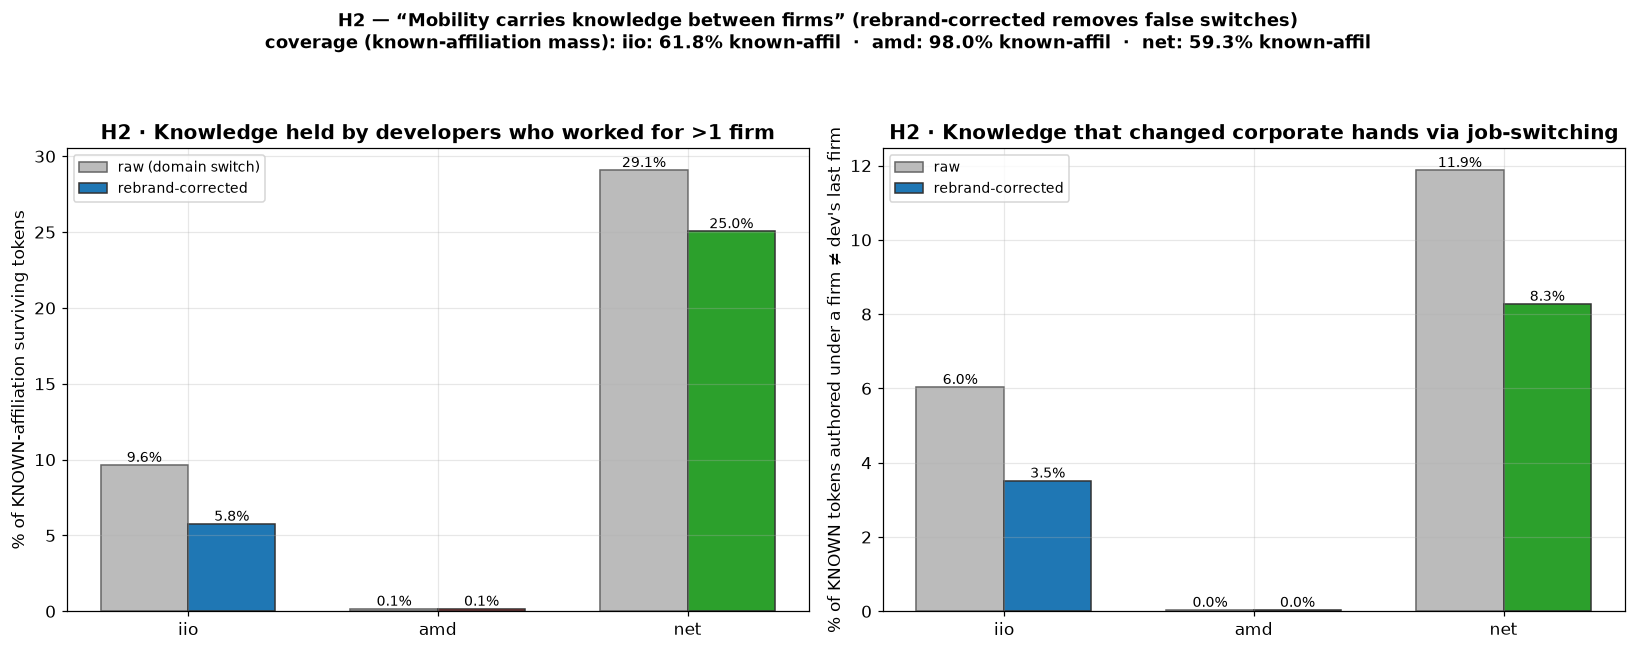
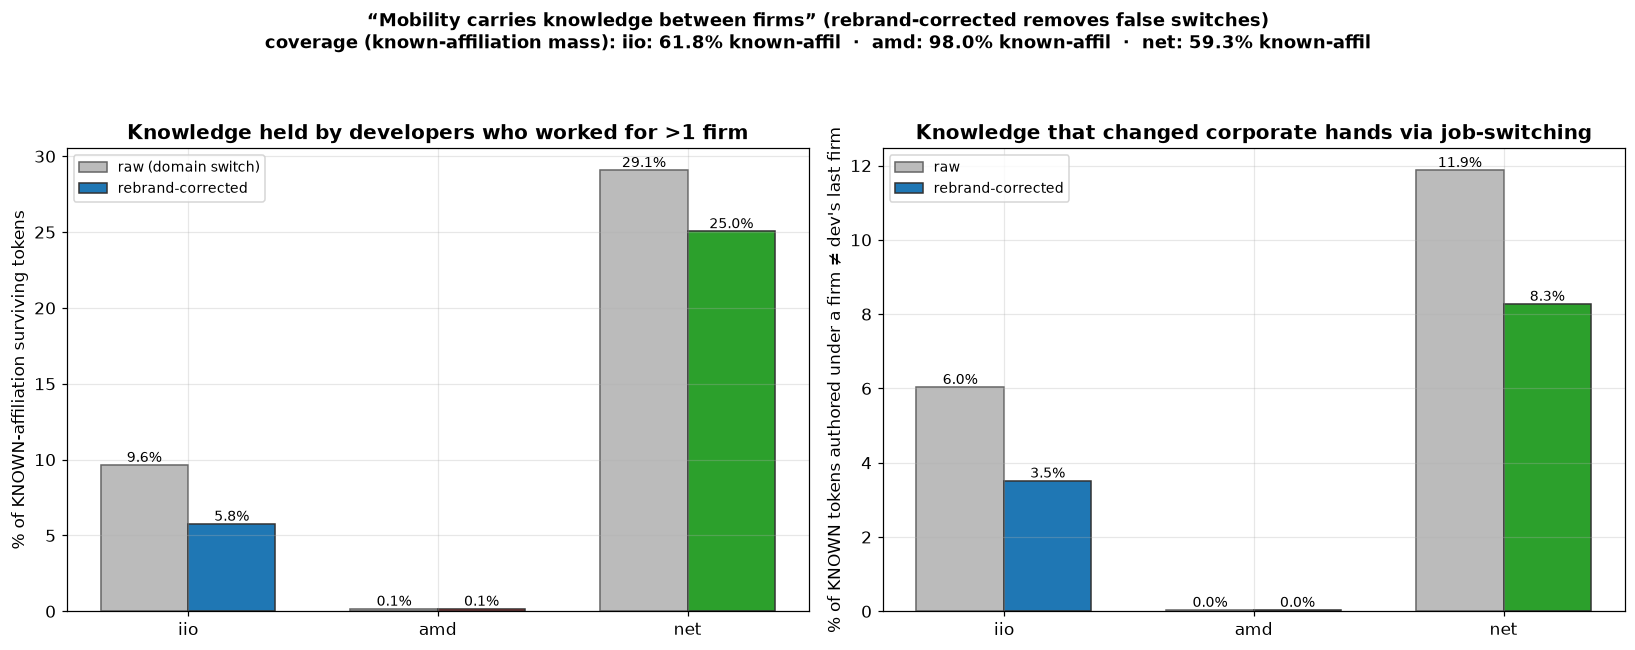
content: clarify metrics + regenerate all figures without internal markers
Prose: add reader-facing explanations for the Gini coefficient, the two
coverage-lift panels (coverage vs corporate share), orphaned/absorbed/retained
outcomes, the mobility stock-vs-flow panels, convergent validity, the
cross-firm-mixing null model, and a note reconciling the turnover firm-TF
(DoA-based, ends ~5/6) with the headline 5%-token figures (7/17).

Figures: regenerate all 12 kc-*.png with clean public titles -- strip notebook
section markers (§2a), work-package/hypothesis/RQ tags (WP7, H1, RQ3), and
em-dashes from every rendered title/label. Data unchanged; overview figures now
use a consistent mass-ranked firm color map across topfirms + ownership.

Changed region(s): [[0.2183, 0.0, 0.7798, 0.0615], [0.5303, 0.1846, 0.9982, 0.2154], [0.0624, 0.1846, 0.4679, 0.2154]]

diff --git a/src/en/posts/measuring-corporate-knowledge-concentration-in-the-linux-kernel.md b/src/en/posts/measuring-corporate-knowledge-concentration-in-the-linux-kernel.md
@@ -116,8 +116,17 @@ firm shares:
 
 $$G = \frac{\sum_{i=1}^{n} \sum_{j=1}^{n} \lvert s_i - s_j \rvert}{2 n^2 \bar{s}}$$
 
-and I report affiliation coverage next to every number so the reader knows how
-much of the code the claim actually rests on.
+The Gini coefficient is a single number from $0$ to $1$ that measures how
+_unevenly_ the tokens are split: it is literally the average absolute difference
+between every pair of firms' shares, normalized to land in $[0, 1]$. A Gini of
+$0$ means every firm owns exactly the same amount; a Gini approaching $1$ means
+one firm owns almost everything and the rest almost nothing. Where HHI (by
+squaring the shares) is dominated by the single largest firm and answers "is
+there one giant?", Gini looks at the whole spread and answers "is the field
+lopsided overall?", so two subsystems with a similar HHI can still differ in Gini
+if one has a long tail of tiny firms. I report both, and I put affiliation
+coverage next to every number so the reader knows how much of the code the claim
+actually rests on.
 
 ## Known Problems
 
@@ -203,7 +212,7 @@ commits really do come from company engineers.
 <div style="display: flex; justify-content: center;">
   <img src="/public/kc-coverage-lift.png" alt="Two bar charts. Left: affiliation coverage before and after resolving the unattributed tail, rising from 62 to 76 percent in iio and 59 to 82 percent in net, while amd barely moves near 98 percent. Right: corporate share of all tokens rising by 12 points in iio and 21 in net.">
 </div>
-<p style="text-align: center;"><em>Resolving the unattributed tail. Where the tail is large (iio, net), attributing it to firms lifts both coverage and the corporate share substantially; amd was already near-complete. This is the lower bound made concrete: the corporate share is provably higher than the raw email-domain view shows.</em></p>
+<p style="text-align: center;"><em>Resolving the unattributed tail. The two panels measure different things: the left is <strong>coverage</strong> (what fraction of tokens we can attribute to <em>any</em> employer at all), the right is the <strong>corporate</strong> slice of that (an employer that is specifically a company). Where the tail is large (iio, net), attributing it lifts both; amd was already near-complete. This is the lower bound made concrete: the corporate share is provably higher than the raw email-domain view shows.</em></p>
 
 But I have to be careful about what that does _not_ say. My first instinct was
 that resolving the tail would also make each subsystem look _more concentrated_,
@@ -230,6 +239,14 @@ fragility on the code?
 I enumerated **fifteen** firm-exit events across the three subsystems and
 classified every predicted-fragile file as orphaned, absorbed by another
 company, or retained.
+
+Each flagged file lands in one of three states, and the distinction matters:
+**orphaned** means _nobody_ picked it up (no known firm clears the expertise bar
+afterward, so the knowledge genuinely fell on the floor); **absorbed** means a
+_different_ company took it over and now dominates it; **retained** means the
+_same_ firm still holds it despite the exit, usually because the departure was
+partial. Orphaned is the bad outcome; the other two are knowledge surviving,
+either in new hands or the original ones.
 
 Across the genuine firm disengagements, only about **5%** of the flagged files
 were actually orphaned; roughly **93%** were absorbed by other companies and the
@@ -287,13 +304,17 @@ anything is counted.
 <div style="display: flex; justify-content: center;">
   <img src="/public/kc-mobility.png" alt="Two bar charts of knowledge held by developers who worked for more than one firm, and knowledge that changed corporate hands, for iio, amd, and net. Each shows a raw bar and a lower rebrand-corrected bar; net is highest at 25 percent corrected, amd near zero.">
 </div>
-<p style="text-align: center;"><em>Developer mobility, raw versus rebrand-corrected. net is the mobile case (~25% of known knowledge held by multi-firm developers); amd is almost immobile. The gap between the grey and coloured bars is the acquisition-rename correction.</em></p>
+<p style="text-align: center;"><em>Developer mobility, raw versus rebrand-corrected. The two panels count different things: the left is a <strong>stock</strong> (how much surviving knowledge is held by anyone who has <em>ever</em> had more than one employer), the right is the stricter <strong>flow</strong> (knowledge authored under a firm that differs from the developer's current one, so it actually <em>crossed</em> a corporate boundary), which is why the right is always smaller. net is the mobile case (~25% of known knowledge held by multi-firm developers); amd is almost immobile. The gap between the grey and coloured bars is the acquisition-rename correction.</em></p>
 
 ## Code, governance, and conversation point the same way
 
-The last piece is a convergent-validity check. If corporate influence is real,
-it should show up on more than one axis. So I measure three independently:
-**code** ownership, **governance** (which company the maintainers work for), and
+The last piece is a convergent-validity check. Convergent validity is a idea
+from measurement: if several _independent_ instruments that are supposed to
+capture the same underlying thing all agree, that agreement is evidence the thing
+is real and you are measuring it, rather than an artifact of one method. If
+corporate influence is real, it should show up on more than one axis. So I
+measure three independently, from entirely different data: **code** ownership
+(cregit tokens), **governance** (which company the maintainers work for), and
 **participation** (mailing-list discussion).
 
 They agree, subsystem by subsystem. In amd, governance concentration is total:
@@ -349,13 +370,20 @@ really three signals averaged together, one concentrated and two distributed.
 There is one thread I chased that mostly _didn't_ hold up, and it is worth
 reporting honestly. If cross-company collaboration reduces single-firm
 dependence, then subsystems where firms talk across company lines on the mailing
-lists should be less concentrated. The raw correlation looked strong — but it
-collapses under a null model. Once you account for the simple fact that `net`
-has hundreds of firms present and `amd` has a handful, **every subsystem
-actually mixes _less_ than chance**: firms are more siloed than random
-co-participation would predict, `amd` most of all. What lowers concentration is
-more firms being present at all, not cross-firm relationships _per se_. A neat
-hypothesis, and the data declined it.
+lists should be less concentrated. The raw correlation looked strong, but it
+collapses under a null model. The "expected" bar in the figure below is that
+null: I hold each subsystem's thread sizes and each firm's total message volume
+fixed, then randomly shuffle _which_ firm sent each message and recompute the
+cross-firm rate, averaged over many shuffles. That is the mixing you would see
+purely by chance, given how many firms are present and how much each one talks.
+Once you compare against it, **every subsystem actually mixes _less_ than
+chance**: firms are more siloed than random co-participation would predict, `amd`
+most of all. What lowers concentration is more firms being present at all, not
+cross-firm relationships _per se_. The comparison against the null is the whole
+result here, which is why the figure keeps both bars: the observed rate alone
+would misleadingly suggest `net` mixes the most, when the point is that it mixes
+_least_ relative to its opportunity. A neat hypothesis, and the data declined
+it.
 
 <div style="display: flex; justify-content: center;">
   <img src="/public/kc-crossfirm-mixing.png" alt="Grouped bar chart of observed versus null-model-expected cross-firm mailing-list thread rates for iio, amd, and net. In every subsystem the observed rate is well below the expected rate: 0.45 times chance in iio, 0.30 in amd, 0.38 in net.">
@@ -379,6 +407,16 @@ person-level truck factor climbs steadily in every subsystem, roughly **2 to
 people have to leave before the knowledge is lost. But the company truck factor
 barely moves. In amd it is **literally pinned at 1 for twelve straight years**
 while the individual figure octuples.
+
+One note on reading this against the headline numbers: because this panel
+reconstructs the tree as it stood at the end of each year, it uses Avelino's
+original normalized-DoA definition of an expert (rather than the $\tau = 5\%$
+surviving-token rule behind the headline firm truck factors), so the firm line
+sits a little lower here, ending near **5 in iio** and **6 in net** instead of
+the headline **7** and **17**. The two definitions disagree on the exact _level_,
+which is expected, but both put amd at **1** and both show the firm factor
+essentially flat while the individual one climbs. The shape of the gap, not its
+units, is the finding.
 
 <div style="display: flex; justify-content: center;">
   <img src="/public/kc-turnover-person-vs-firm-tf.png" alt="Two panels. Left: person-level truck factor (solid lines) climbing steeply for iio, amd, and net while the firm-level truck factor (dashed lines) stays flat near the bottom. Right: the person-to-firm truck-factor ratio widening over time, most sharply for amd.">
